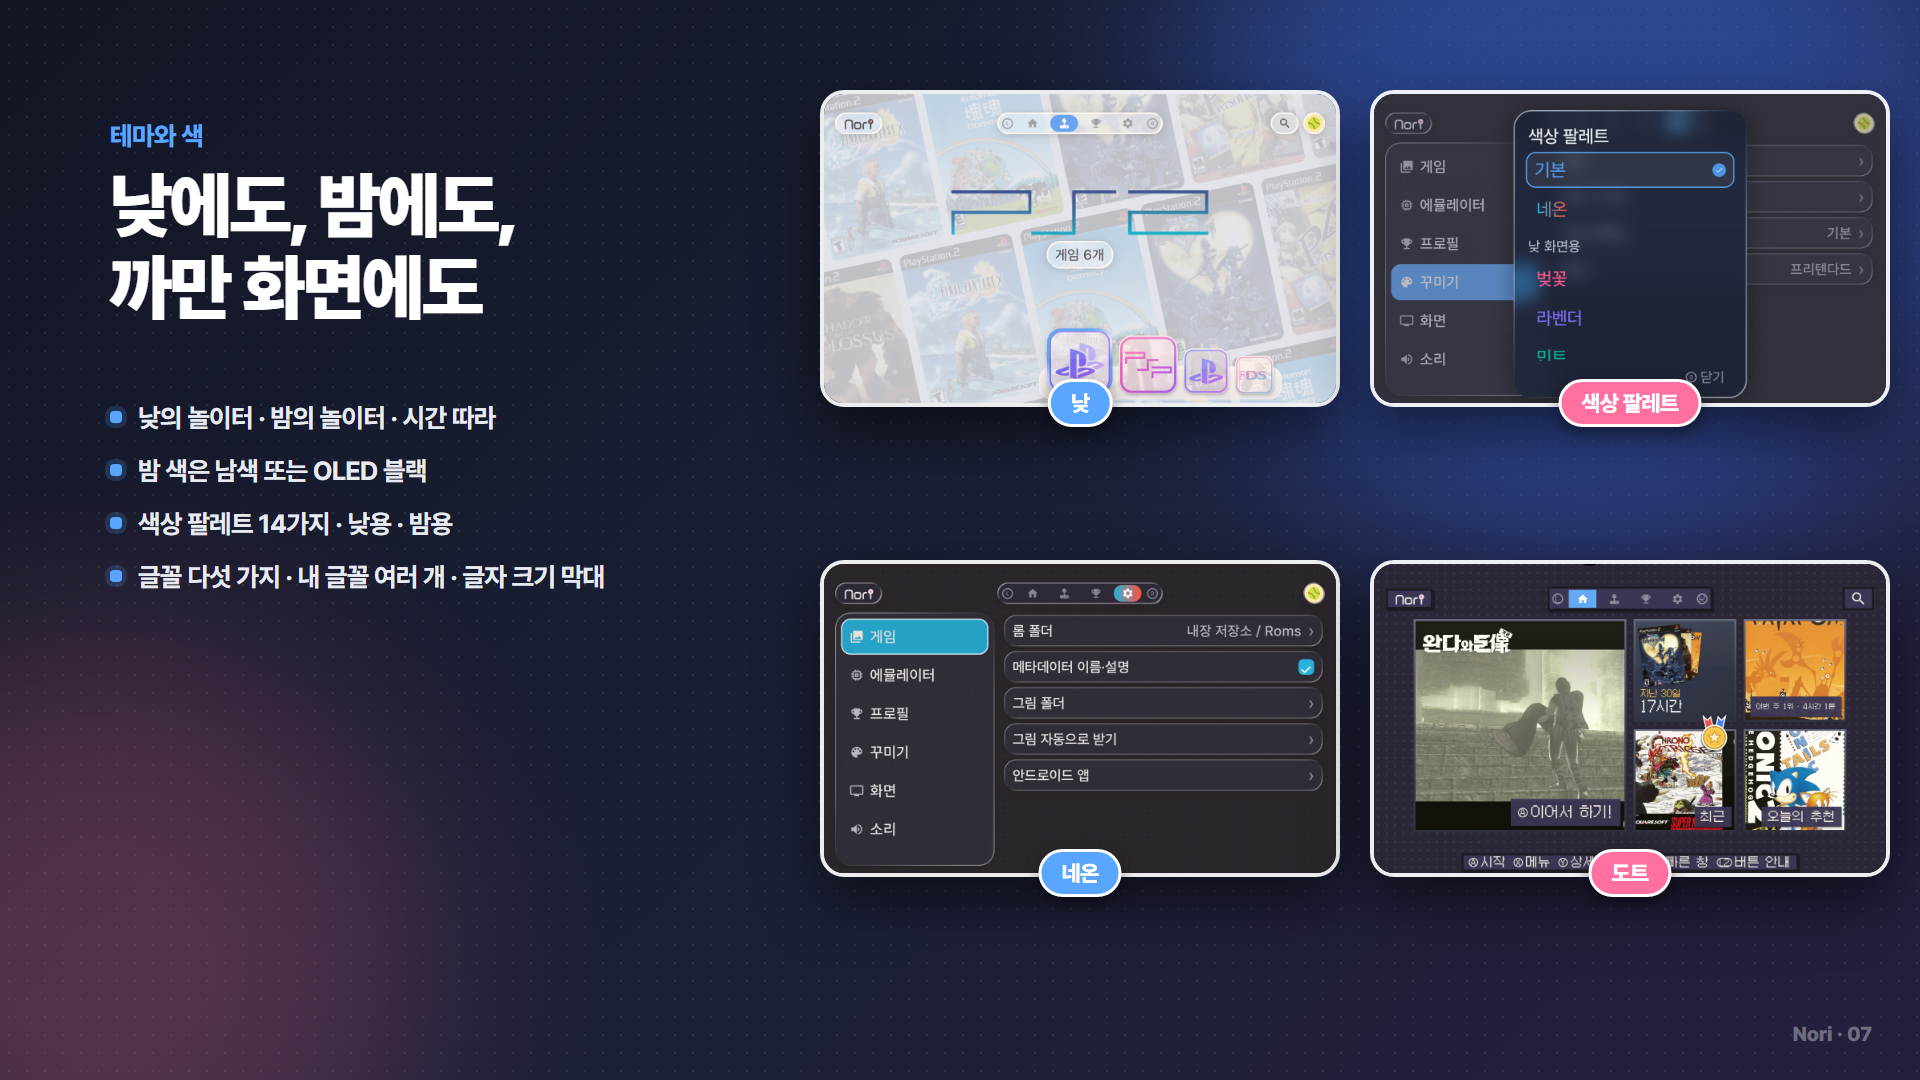
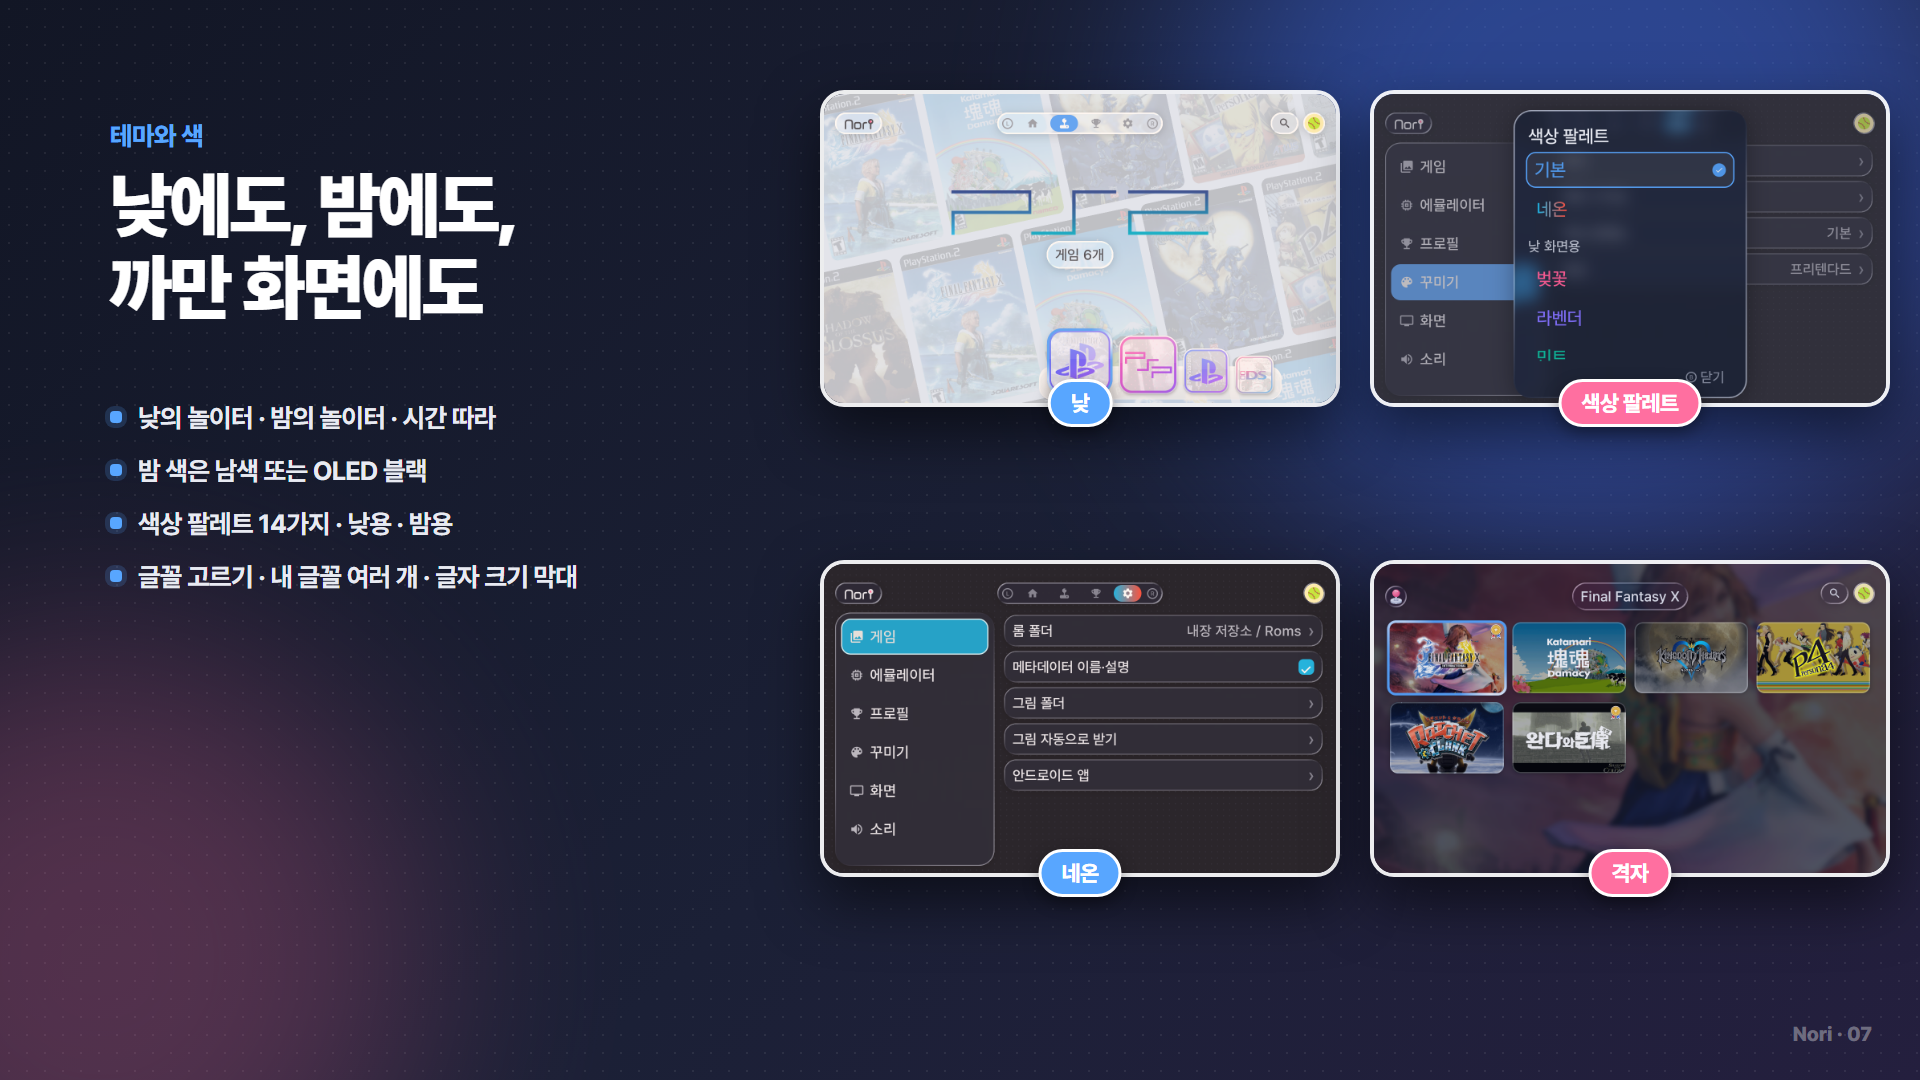
0.5.2: 격자 테마, 설정 메뉴 이름, 글꼴 안내, 그림 교체

Changed region(s): [[0.7188, 0.5194, 1.0, 0.825], [0.0938, 0.5194, 0.3125, 0.55]]

diff --git a/README.md b/README.md
@@ -3,11 +3,11 @@
 </p>
 
 <p align="center">
-  <img src="docs/brand/nori_header.png" alt="Nori — 고르는 순간부터 놀이처럼. 안드로이드용 에뮬레이터 게임 런처" width="100%">
+  <img src="docs/brand/nori_header.png" alt="Nori — 고르는 순간부터 놀이, 안드로이드용 에뮬레이터 게임 런처" width="100%">
 </p>
 
 <p align="center">
-  <a href="../../releases/latest"><img src="https://img.shields.io/github/v/release/nori-launcher/Nori?label=%EC%B5%9C%EC%8B%A0%ED%8C%90&color=58A6FF" alt="최신판"></a>
+  <a href="../../releases/latest"><img src="https://img.shields.io/github/v/release/nori-launcher/Nori?label=%EC%B5%9C%EC%8B%A0%ED%8C%90&color=58A6FF" alt="최신 버전"></a>
   <a href="../../releases"><img src="https://img.shields.io/github/downloads/nori-launcher/Nori/total?label=%EB%B0%9B%EC%9D%80%20%EC%88%98&color=FF6FA0" alt="받은 수"></a>
   <img src="https://img.shields.io/badge/%EB%B2%A0%ED%83%80-%EB%AC%B4%EB%A3%8C-3FB950" alt="베타 무료">
   <img src="https://img.shields.io/badge/Android-8.0%2B-34A853?logo=android&logoColor=white" alt="Android 8.0+">
@@ -35,7 +35,7 @@
 
 > [!IMPORTANT]
 > 지금은 **베타 버전**이고 **무료**입니다. 버그가 있을 수 있습니다.
-> 이상한 점은 [이슈](../../issues/new/choose)로 알려 주시면 다음 판에서 고칩니다.
+> 이상한 점은 [이슈](../../issues/new/choose)로 알려 주시면 다음 버전에서 고칩니다.
 
 ## 노리는 이런 앱입니다
 
@@ -56,32 +56,32 @@
 
 ![게임 고르기](docs/images/03_library.png)
 
-### 화면 스타일 네 가지
-설정에서 카드 하나만 누르면 화면 전체가 바뀝니다. 스타일마다 어울리는 배경음악도 따로 붙어 있습니다.
+### 테마 네 가지
+설정에서 카드 하나만 누르면 게임 고르는 화면이 바뀝니다. 테마마다 어울리는 배경음악도 따로 붙어 있습니다.
 
-| 스타일 | 특징 |
+| 테마 | 특징 |
 | --- | --- |
-| **기본** | 유리처럼 맑은 독, 둥근 칸 |
-| **도트** | 각진 칸과 딱딱한 그림자, 갈무리 글꼴 |
+| **기본** | 맑은 유리 독, 둥근 칸 |
 | **휠** | 화면 아래 반원 휠에 표지가 늘어서고, 스틱으로 돌려 고름 |
 | **목록** | 왼쪽에 제목 목록, 오른쪽에 표지·로고·게임 설명 |
+| **격자** | 칸마다 게임 배경과 로고, 한 줄 칸 수는 빠른 설정에서 |
 
-![화면 스타일](docs/images/04_styles.png)
+![테마](docs/images/04_styles.png)
 
 ### 휠 — 세게 돌리면 룰렛
 뭘 할지 모르겠는 날엔 휠을 힘껏 돌려 보세요. 멈춘 자리에 「오늘은 이 게임!」이 뜹니다.
 
-![휠 스타일](docs/images/05_wheel.png)
+![휠 테마](docs/images/05_wheel.png)
 
 ### 목록 — 제목은 왼쪽, 이야기는 오른쪽
 게임이 많아도 한눈에 보입니다. 세로형·가로형 표지 모두 크게 보이고, 게임 설명은 길면 저절로 천천히 내려갑니다.
 
-![목록 스타일](docs/images/06_list.png)
+![목록 테마](docs/images/06_list.png)
 
-### 테마와 색
+### 낮·밤 화면과 색
 낮의 놀이터 · 밤의 놀이터 · 시간 따라. 밤 색은 남색과 OLED 블랙 중에 고르고, 색상 팔레트는 기본 파랑과 네온(파랑×빨강)이 있습니다. 글꼴 다섯 가지에 내 TTF 글꼴도 쓸 수 있습니다.
 
-![테마와 색](docs/images/07_colors.png)
+![낮·밤 화면과 색](docs/images/07_colors.png)
 
 ### 업적과 기록
 업적 443개(동·은·금), 게임별 플레이 시간과 순위, 해마다·달마다 기록이 쌓입니다. RetroAchievements 계정을 연결하면 클리어한 게임에 메달이 붙습니다.
@@ -110,8 +110,8 @@ X는 메뉴, Y는 상세입니다. 즐겨찾기, 클리어 표시, 이 게임만
 1. [Releases](../../releases/latest)에서 `Nori-버전.apk`를 받습니다.
 2. 기기에서 APK를 엽니다. 「출처를 알 수 없는 앱」 설치를 묻으면 허용합니다.
 
-**새 판이 나오면** 새 APK를 덮어 깔면 됩니다. 즐겨찾기·플레이 기록·설정은 그대로 남습니다.
-[Obtainium](https://github.com/ImranR98/Obtainium)을 쓰시면 새 판이 나올 때 알아서 받아 줍니다.
+**새 버전이 나오면** 새 APK를 덮어 깔면 됩니다. 즐겨찾기·플레이 기록·설정은 그대로 남습니다.
+[Obtainium](https://github.com/ImranR98/Obtainium)을 쓰시면 새 버전이 나올 때 알아서 받아 줍니다.
 
 <p align="center">
   <a href="http://apps.obtainium.imranr.dev/redirect.html?r=obtainium://app/%7B%22id%22%3A%22app.nori%22%2C%22url%22%3A%22https%3A%2F%2Fgithub.com%2Fnori-launcher%2FNori%22%2C%22author%22%3A%22nori-launcher%22%2C%22name%22%3A%22Nori%22%7D">
@@ -136,7 +136,7 @@ X는 메뉴, Y는 상세입니다. 즐겨찾기, 클리어 표시, 이 게임만
 ### 2. 처음 켠 다음에 해 두면 좋은 것
 - **에뮬레이터 연결** — 게임 화면의 기기 독에서 기기를 고른 채 **X**를 누르고, 그 기기를 열 에뮬레이터를 고릅니다. 게임이 안 켜지면 먼저 여기를 확인하세요.
 - **빈 그림 채우기** — 설정 → 게임 → **「빈 그림 받기」**를 누르면 ScreenScraper와 libretro 저장소에서 표지·로고·배경·영상·설명을 찾아 롬 옆에 저장합니다.
-- **화면 스타일 고르기** — 설정 → 꾸미기 → 스타일에서 기본·도트·휠·목록 중 하나를 고릅니다. 테마(낮·밤), 색, 글꼴, 글자 크기도 여기 있습니다.
+- **테마 고르기** — 설정 → 디스플레이 → 테마에서 기본·휠·목록·격자 중 하나를 고릅니다. 낮·밤 화면, 색, 글꼴, 글자 크기도 여기 있습니다.
 - **RetroAchievements 연결** — 설정 → 프로필 → 외부 서비스 연결에서 계정 이름과 웹 API 키를 넣으면 클리어한 게임에 메달이 붙습니다. 키는 [retroachievements.org/settings](https://retroachievements.org/settings) 아래쪽에 있습니다.
 - **단추 바꾸기** — 닌텐도식 배치(A·B 자리 바꿈)를 원하면 설정 → 패드에서 바꿉니다.
 
@@ -155,7 +155,7 @@ Roms/
 │   ├─ Dragon Quest VIII-logo.png   ← 로고
 │   ├─ Dragon Quest VIII-bg.png     ← 배경
 │   ├─ Dragon Quest VIII.mp4        ← 미리보기 영상
-│   └─ Dragon Quest VIII.txt        ← 게임 설명 (목록 스타일)
+│   └─ Dragon Quest VIII.txt        ← 게임 설명 (목록 테마)
 ├─ psp/
 ├─ psx/
 └─ snes/
@@ -321,10 +321,11 @@ Roms/arcade/fbneo/gunbird.zip    ← FinalBurn Neo 칸
 ## 알아 두실 점
 
 - 노리는 게임 파일(롬·바이오스)을 제공하지 않습니다. 본인이 가진 게임으로만 써 주세요.
-- 기기 로고는 어느 기기의 게임인지 알아보기 위한 표시로만 씁니다. 소니, 닌텐도, 세가, NEC, 캡콤, SNK, 사미 등 각 회사와 MAME, FinalBurn Neo 프로젝트의 상표이며, 노리는 이들과 관계가 없습니다.
+- 기기 로고는 어느 기기의 게임인지 알아보기 위한 표시로만 씁니다. 소니, 닌텐도, 세가, NEC, 캡콤, SNK, 사미, 아타리, 코모도어, 싱클레어, 콜레코, Lexaloffle 등 각 회사와 MAME, FinalBurn Neo 프로젝트의 상표이며, 노리는 이들과 관계가 없습니다.
 - 기본 아바타는 [Microsoft Fluent UI Emoji](https://github.com/microsoft/fluentui-emoji)(MIT License)입니다.
 - 게임 표지·로고·배경 그림의 권리는 각 회사에 있습니다.
-- 같이 넣은 글꼴은 모두 SIL Open Font License 1.1을 따릅니다: [Pretendard](https://github.com/orioncactus/pretendard) · [고운돋움](https://fonts.google.com/specimen/Gowun+Dodum) · [IBM Plex Sans KR](https://fonts.google.com/specimen/IBM+Plex+Sans+KR) · [Jua](https://fonts.google.com/specimen/Jua) · [갈무리](https://github.com/quiple/galmuri).
+- 같이 넣은 다른 글꼴은 SIL Open Font License 1.1을 따릅니다: [Pretendard](https://github.com/orioncactus/pretendard).
+- 마루부리는 네이버 글꼴 라이선스를 따릅니다: [네이버 글꼴](https://hangeul.naver.com/font), © NAVER Corp. © NAVER Cultural Foundation Corp.
 - 그림 자동 받기는 [ScreenScraper](https://www.screenscraper.fr)와 [libretro-thumbnails](https://github.com/libretro-thumbnails/libretro-thumbnails)를 씁니다.
 
 ---

diff --git a/README.en.md b/README.en.md
@@ -59,17 +59,17 @@ Choose a system in the system dock, then a game in the game dock. The game's bac
 
 ![Browsing](docs/images_en/03_library.png)
 
-### Four styles
-One tap in Settings changes the whole look, and each style has its own background music.
+### Four themes
+One tap in Settings changes how you pick games, and each theme has its own background music.
 
-| Style | What it looks like |
+| Theme | What it looks like |
 | --- | --- |
 | **Basic** | Clear glass docks, rounded tiles |
-| **Pixel** | Square tiles, hard shadows, Galmuri pixel font |
 | **Wheel** | Covers along a half-wheel at the bottom, spun with the stick |
 | **List** | Titles on the left; cover, logo and description on the right |
+| **Grid** | A background and logo on every tile; tiles per row in Quick settings |
 
-![Styles](docs/images_en/04_styles.png)
+![Themes](docs/images_en/04_styles.png)
 
 ### Wheel — spin it hard for a roulette
 Can't decide what to play? Give the wheel a hard spin. Wherever it stops, you get "🎲 This one today!".
@@ -141,7 +141,7 @@ A short setup runs the first time you open Nori.
 ### 2. Worth doing next
 - **Set up emulators** — in the system dock, select a system and press **X** to choose which emulator opens it. If a game won't start, check this first.
 - **Fill missing art** — Settings → Games → **Fill missing art** finds box art, logos, backgrounds, videos and descriptions on ScreenScraper and the libretro repository, and saves them next to your ROMs.
-- **Choose a style** — Settings → Appearance → Style: Basic, Pixel, Wheel or List. Theme, colors, fonts and text size are here too.
+- **Choose a theme** — Settings → Display → Theme: Basic, Wheel, List or Grid. Day and night, colors, fonts and text size are here too.
 - **Link RetroAchievements** — Settings → Profile → Linked services: enter your username and Web API key and beaten games get a medal. Find your key near the bottom of [retroachievements.org/settings](https://retroachievements.org/settings).
 - **Remap buttons** — want a Nintendo-style layout (A and B swapped)? Change it in Settings → Controller.
 
@@ -160,7 +160,7 @@ Roms/
 │   ├─ Final Fantasy X-logo.png   ← logo
 │   ├─ Final Fantasy X-bg.png     ← background
 │   ├─ Final Fantasy X.mp4        ← preview video
-│   └─ Final Fantasy X.txt        ← description (List style)
+│   └─ Final Fantasy X.txt        ← description (List theme)
 ├─ psp/
 ├─ psx/
 └─ snes/
@@ -325,10 +325,11 @@ Yes. It's designed for landscape and works with touch, but it's most comfortable
 ## Notes
 
 - Nori does not provide any game files (ROMs or BIOS). Please only use games you own.
-- System logos are used only to identify which system a game belongs to. They are trademarks of Sony, Nintendo, Sega, NEC, Capcom, SNK, Sammy, the MAME and FinalBurn Neo projects and others, and Nori is not affiliated with them.
+- System logos are used only to identify which system a game belongs to. They are trademarks of Sony, Nintendo, Sega, NEC, Capcom, SNK, Sammy, Atari, Commodore, Sinclair, Coleco, Lexaloffle, the MAME and FinalBurn Neo projects and others, and Nori is not affiliated with them.
 - Default avatars are from [Microsoft Fluent UI Emoji](https://github.com/microsoft/fluentui-emoji) (MIT License).
 - Box art, logos and backgrounds belong to their respective owners.
-- All bundled fonts are under the SIL Open Font License 1.1: [Pretendard](https://github.com/orioncactus/pretendard) · [Gowun Dodum](https://fonts.google.com/specimen/Gowun+Dodum) · [IBM Plex Sans KR](https://fonts.google.com/specimen/IBM+Plex+Sans+KR) · [Jua](https://fonts.google.com/specimen/Jua) · [Galmuri](https://github.com/quiple/galmuri).
+- The other bundled fonts are under the SIL Open Font License 1.1: [Pretendard](https://github.com/orioncactus/pretendard).
+- MaruBuri is under the NAVER font license: [NAVER fonts](https://hangeul.naver.com/font), © NAVER Corp. © NAVER Cultural Foundation Corp.
 - Artwork downloads use [ScreenScraper](https://www.screenscraper.fr) and [libretro-thumbnails](https://github.com/libretro-thumbnails/libretro-thumbnails).
 
 ---
